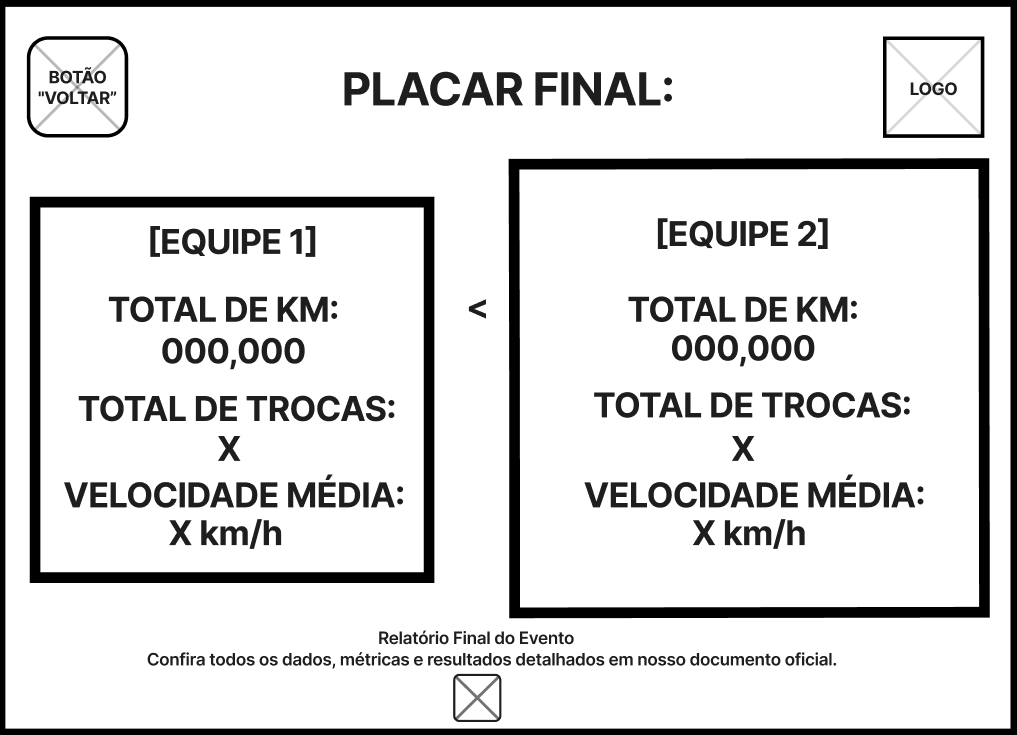
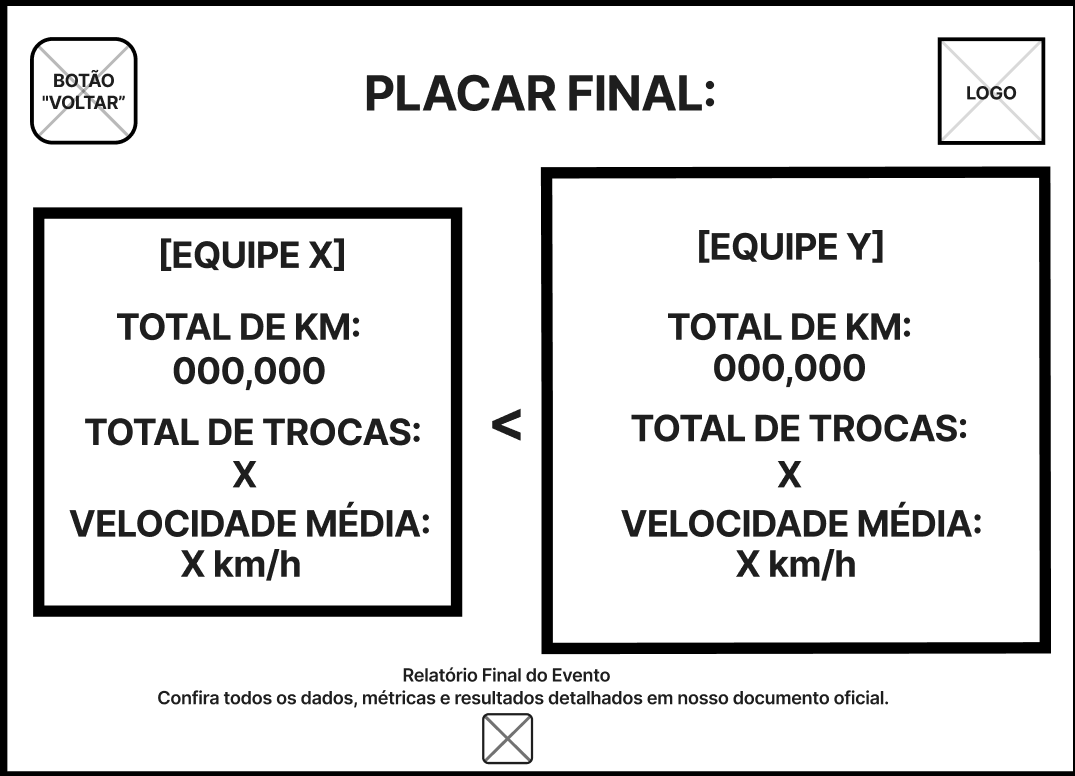
docs: adiciona imagem placar final após feedback

diff --git a/documentos/wad.md b/documentos/wad.md
@@ -852,7 +852,7 @@ A Figura 3.3.Y ilustra o wireframe da tela de placar final. Atendendo à necessi
 <br>
 <div align="center">
   <b>Figura 3.3.Y — Tela de comparação final entre equipes </b><br>
-  <img src="../assets/tela_placarFinal.png" width="100%"><br>
+  <img src="../assets/tela_placarfinal.png" width="100%"><br>
   <sub>Fonte: Elaborado pelos autores (2026).</sub>
 </div>
 <br>